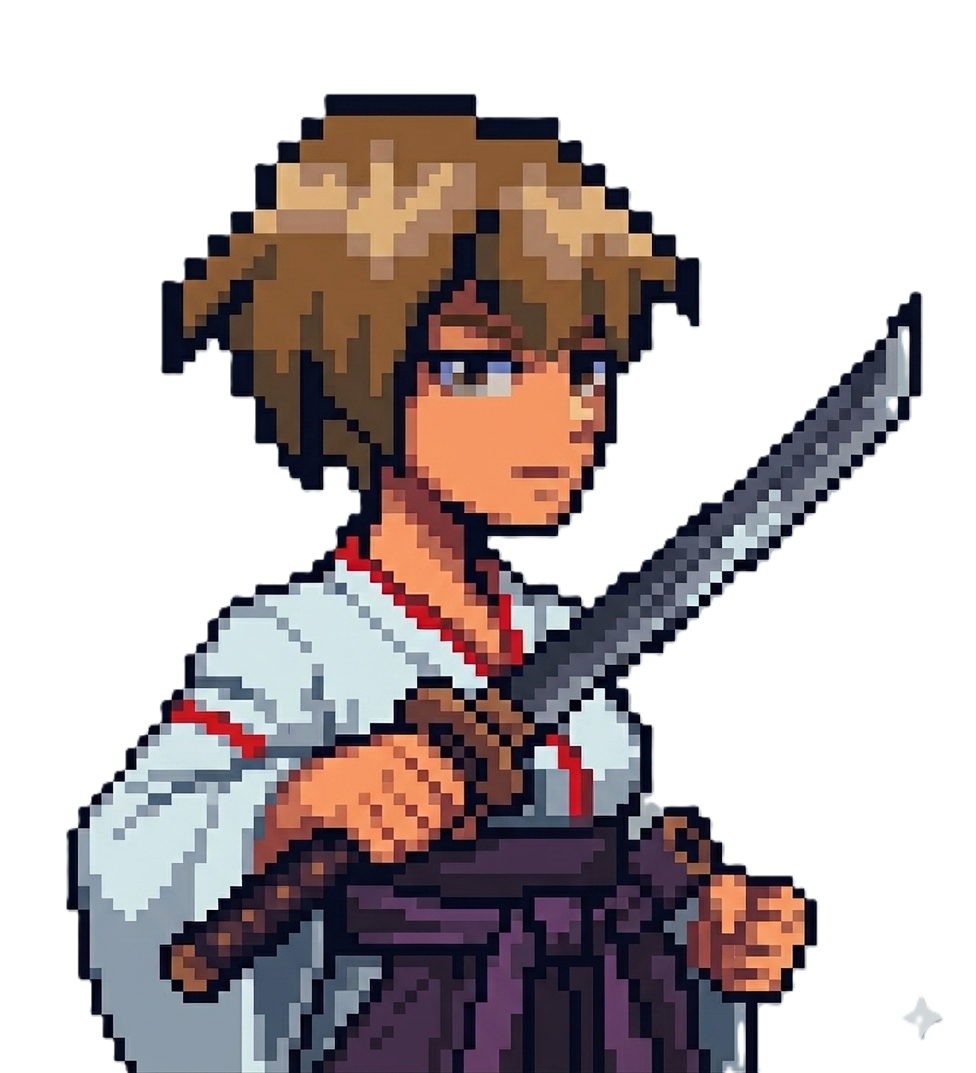
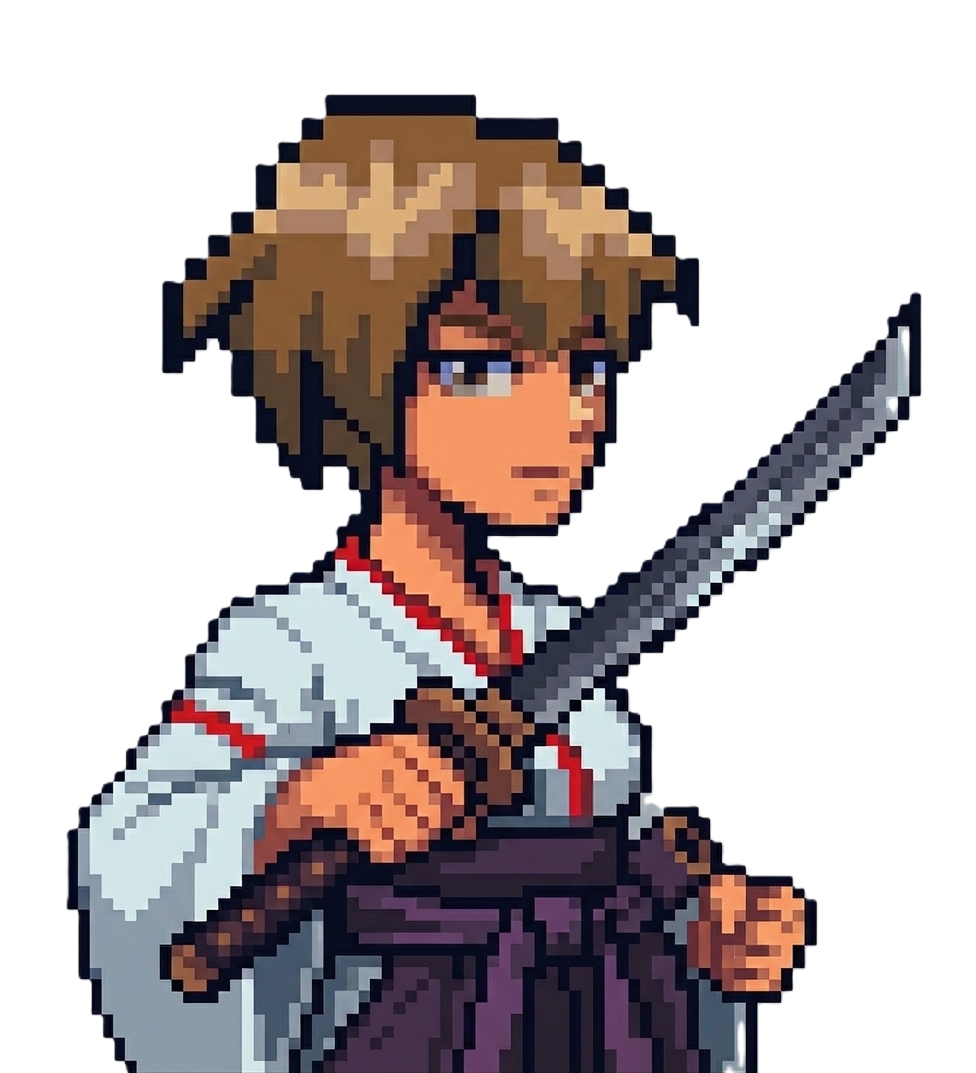
school

diff --git a/main.py b/main.py
@@ -89,11 +89,11 @@ fire_spawn_timer=0
 
 
 L1_WAVES = [
-    [(animation.Demon1_animations, '1', 2)],
-    [(animation.Demon1_animations, '1', 2),
-     (animation.Demon4_animations, '4', 1)],
-    [(animation.Demon1_animations, '1', 2),
-     (animation.Demon4_animations, '4', 2)],
+    [(animation.Demon1_animations, '1', 1)],
+    # [(animation.Demon1_animations, '1', 2),
+    #  (animation.Demon4_animations, '4', 1)],
+    # [(animation.Demon1_animations, '1', 2),
+    #  (animation.Demon4_animations, '4', 2)],
 ]
 
 L2_WAVES = [
@@ -107,13 +107,13 @@ L2_WAVES = [
 ]
 
 L3_WAVES = [
-    [(animation.Demon1_animations, '1', 2),
-     (animation.Demon5_animations, '5', 1)],
-    [(animation.Demon4_animations, '4', 2),
-     (animation.Demon5_animations, '5', 2)],
-    [(animation.Demon1_animations, '1', 2),
-     (animation.Demon4_animations, '4', 1),
-     (animation.Demon5_animations, '5', 2)],
+    # [(animation.Demon1_animations, '1', 2),
+    #  (animation.Demon5_animations, '5', 1)],
+    # [(animation.Demon4_animations, '4', 2),
+    #  (animation.Demon5_animations, '5', 2)],
+    # [(animation.Demon1_animations, '1', 2),
+    #  (animation.Demon4_animations, '4', 1),
+    #  (animation.Demon5_animations, '5', 2)],
 ]
 L3_BOSS=[[(animation.Boss_animations,'Boss',1),],]
    
@@ -127,9 +127,9 @@ is_dashing=False
 is_changing_character=False
 is_jumping=False
 current_level='1'
-is_level1=True
+is_level1=False
 is_level2=False
-is_level3=False
+is_level3=True
 
 #load button image
 start_img=pygame.image.load("assets/buttons/start_btn.png").convert()
@@ -142,7 +142,8 @@ bg_img_building = pygame.image.load("assets/Background/Night/2.png").convert()
 #scale background
 bg_img=pygame.transform.scale(bg_img,(cons.SCREEN_WIDTH,cons.SCREEN_HEIGHT))
 bg_img_building=pygame.transform.scale(bg_img_building,(cons.SCREEN_WIDTH,cons.SCREEN_HEIGHT))
-
+rin_img=pygame.image.load("assets/alliance/Rin_dialog.png").convert()
+Rin_img=pygame.transform.scale(rin_img,(cons.SCREEN_WIDTH//2,cons.SCREEN_HEIGHT//2))
 
 #load items
 cake_img=pygame.image.load('assets/food/Icon21_03.png').convert_alpha()
@@ -655,6 +656,7 @@ while game_run:
         if game_over_timer>0:
             game_over_timer-=delta_time
             UI.draw_text_screen(screen,font,'You won! good job.')
+            screen.blit(Rin_img,(0,0))
         else:
             screen.fill((0,0,0))
             if restart_button.draw(screen):
@@ -675,7 +677,8 @@ while game_run:
                 show_dialog_timer = 3000
                 level_complete_shop = False
                 enemy_list.clear()
-                alliance_group.clear()
+                if not alliance_group.empty():
+                 alliance_group.clear()
                 reset_level(world, player, enemy_list, fire_ball_group, charge_group,
                             dagame_Text_group, item_group, world_data, object_data,
                             platform_data, tile_list, obj_tile_list)
@@ -833,7 +836,7 @@ while game_run:
                     else:
                         #if this is the last wave,deactivate the wave
                         wave_active=False
-                        if not level_complete_shop and player.score>cons.L1_GOAL:
+                        if not level_complete_shop and player.score>=cons.L1_GOAL:
                             level_complete_shop=True
                             is_shopmenu=True
              if is_level2:
@@ -855,7 +858,7 @@ while game_run:
                                
                         else:
                             wave_active=False
-                            if not level_complete_shop and player.score>cons.L2_GOAL:
+                            if not level_complete_shop and player.score>=cons.L2_GOAL:
                                 level_complete_shop=True
                                 is_shopmenu=True
              if is_level3:
@@ -1107,7 +1110,7 @@ while game_run:
     #Level_text.draw_text(screen)
          if current_level=='1':
           score_text=UI.Text(50,15,f'{player.score}/{cons.L1_GOAL}',font,cons.PURPLE)
-         elif current_level=='2':
+         elif current_level=='2'or current_level=='3':
           score_text=UI.Text(50,15,f'{player.score}/{cons.L2_GOAL}',font,cons.PURPLE)
          score_text.draw_text(screen)
          score_text.update(screen_scroll)

diff --git a/Alliance.py b/Alliance.py
@@ -179,12 +179,14 @@ class Alliance(pygame.sprite.Sprite):
 
         abs_dx = abs(dx_to_target)
         abs_dy = abs(dy_to_target)
+        
+        if self.name=='Vesper' or self.name=='Fuma':
+            if abs_dy>=60:
+                self.rect.centerx = self.target.rect.centerx-10
+                self.rect.bottom = self.target.rect.bottom
+                self.vel_y = 0
+                return
 
-        if abs_dy>=60:
-            self.rect.centerx = self.target.rect.centerx-10
-            self.rect.bottom = self.target.rect.bottom
-            self.vel_y = 0
-            return
         
         in_attack_range = abs_dx < self.attack_range and abs_dy < 60
 

diff --git a/Constants.py b/Constants.py
@@ -47,5 +47,5 @@ VICTORY_TIMER=2000
 INTRO_TIMER=1000
 GAME_OVER_TIMER=2000
 
-L1_GOAL=300
+L1_GOAL=0
 L2_GOAL=700
